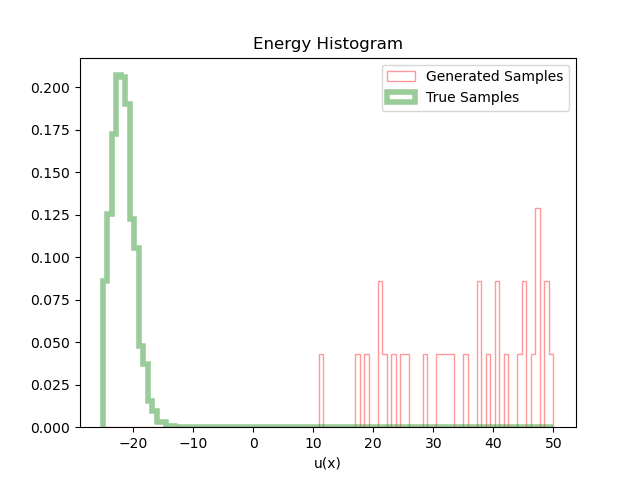
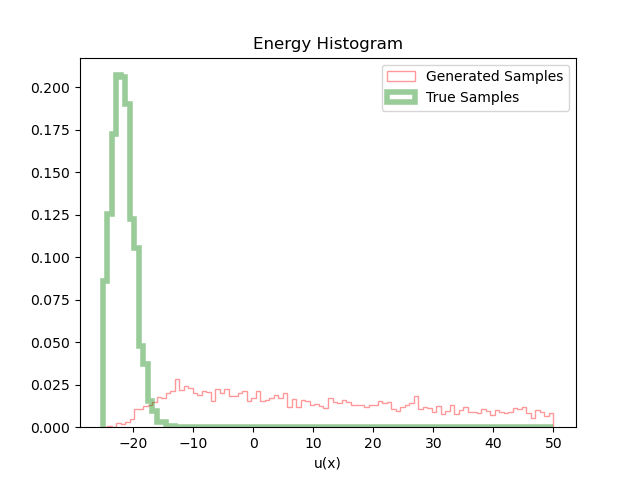
corrections again

Changed region(s): [[0.3125, 0.5938, 0.875, 0.9062], [0.25, 0.8125, 0.2812, 0.8438]]

diff --git a/eval_and_plot.py b/eval_and_plot.py
@@ -156,7 +156,7 @@ def plot_generating_flow(args, data, flow, prior, target, latent, samples, model
     
     # Changes based on the flow type (Diffeq for kernel/new and FFJORD for egnn) 
     if "kernel" or "new" in args.model:
-        x, dlogp = flow(latent)
+        x, dlogp = flow(latent, inverse=True)
         x = x.view(samples, -1)
     else:
         sampling = True
@@ -287,7 +287,7 @@ def main():
             # label = os.path.basename(model_path)[0]
             # plot_generating_flow(args, data, flow, prior, target, latent, samples, ax=ax, label=label)
         for model_name in args.model_names:       
-            model_path = f"{model_dir}/best_model_{args.model}/n_data_{args.n_data}/{model_name}.pth"
+            model_path = f"{model_dir}/best_model_{args.model}/n_data_{args.n_data}/{model_name}_final.pth"
             flow = load_and_test_model(args, model_path, n_particles, n_dims)
             data, target = dw4_data_and_target()
             plot_generating_flow(args, data, flow, prior, target, latent, samples, model_name)
